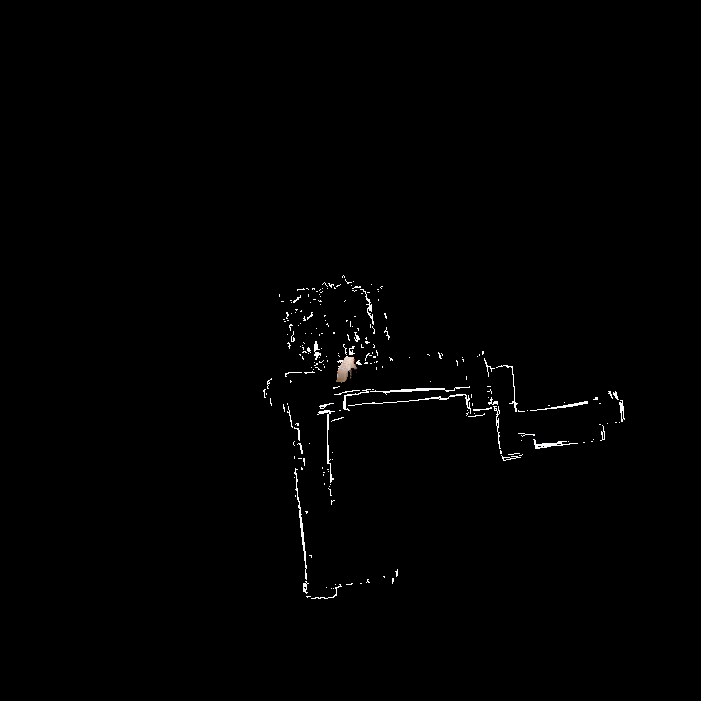
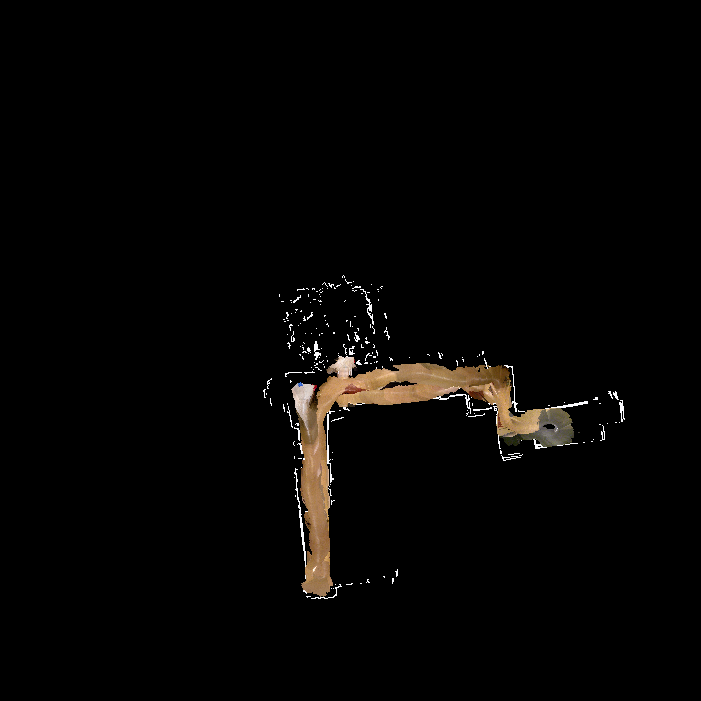
texturing done for dataset 20

Changed region(s): [[0.4194, 0.5093, 0.8388, 0.8688]]

diff --git a/HW2/SLAM.py b/HW2/SLAM.py
@@ -7,6 +7,7 @@ import copy
 import cv2
 from PIL import Image
 from matplotlib import cm
+import pandas as pd
 from operator import itemgetter
 from datetime import datetime
 
@@ -293,31 +294,35 @@ class TextureMapper:
         depth = 1.03/dd
         return depth
 
-    def ir_to_rgb(self, i, j, d):
-        depth = self.disparity_to_depth(d)
-        rgbi = (i * 526.37 + 1.03/depth * -4.5 * 1750.46 + 19276.0)/585.051
-        rgbj = (j * 526.37 + 16662)/585.051
+    def ir_to_rgb(self, indeces, disps):
+        depth = self.disparity_to_depth(disps)
+        rgbi = (indeces[1] * 526.37 + 1.03/depth * -4.5 * 1750.46 + 19276.0)/585.051
+        rgbj = (indeces[0] * 526.37 + 16662)/585.051
         return rgbi, rgbj
 
-    def pixel_to_body(self, u, v, d):
+    def pixel_to_body(self, A):
+        A = self.disparity_to_depth(A)
+        A[A <= 0.05] = -1000000
+        pixels = np.array([[np.array([j, i, 1]) for j in range(A.shape[1])] for i in range(A.shape[0])])
+        func = lambda x: np.dot(self.intrinsics, x)
+        B = np.array([[func(elem) for elem in pixels[i]]for i in range(pixels.shape[0])])
+        C = np.einsum('ij,ijk->ijk', A, B)
+        func2 = lambda x: np.dot(self.R_co, x)
+        D = np.array([[func2(elem) for elem in C[i]] for i in range(C.shape[0])])
+        E = np.dstack((D, np.ones((480, 640))))
+        func3 = lambda x: np.dot(self.T_bc, x)
+        body_frame = np.array([[func3(elem) for elem in E[i]] for i in range(E.shape[0])])
+        return body_frame
+
+    def pixel_to_body2(self, u, v, d):
         depth = self.disparity_to_depth(d)
         if depth < 0.05:
-            return np.array([0, 0, 0, 0])
+            return np.array([0, 0, 1000, 0])
         pixel = np.array([u, v, 1])
-        optical_frame = depth * np.dot(self.intrinsics, pixel)
+        optical_frame = depth*np.dot(self.intrinsics, pixel)
         regular_frame = np.dot(self.R_co, optical_frame)
         body_frame = np.dot(self.T_bc, np.append(regular_frame, 1))
         return body_frame
-
-
-    def test(self, p):
-        p1 = self.pixel_to_body(10, 10, 2)
-        p2 = self.pixel_to_body(300, 400, 1)
-        transform = p.transform_3d()
-        print(p1)
-        world = helpers.transformation_3d(p1, transform)
-        print(world)
-
 
 
 
@@ -396,34 +401,47 @@ if __name__ == "__main__":
         im = Image.fromarray(np.uint8(cm.gist_earth(occupancy_grid)*255))
         im.save("texture_map.png")
         texture_map = cv2.imread("texture_map.png")
-        counter = 0
         particle = Particle()
         timestamps = [x[1] for x in predictor.trajectory]
+        counter = 0
         for i, t in enumerate(kinect["disp_stamps"]):
-            if i % 10 != 0:
+            if i%1 != 0:
                 continue
-            if counter >= 50:
+            if counter == 2000:
                 break
             counter += 1
-            print(i)
             idx = (np.abs(timestamps - t)).argmin()
             particle.pose = predictor.trajectory[idx][0]
             particle.transform = particle.generate_transform()
+            print("img: " + str(i+1))
             disp_img = cv2.imread(
                 "dataRGBD/Disparity" + str(dataset) + "/disparity" + str(dataset) + "_" + str(i+1) + ".png", -1)
             rgb_img = cv2.imread("dataRGBD/RGB"+str(dataset)+"/rgb"+str(dataset)+"_"+str(i+1)+".png")
-            print("img: " + str(i+1))
-            for v, row in enumerate(disp_img[350:]):  # Starts at upper left
-                for u, disp in enumerate(row):
-                    coord = texture_mapper.pixel_to_body(u, v+350, disp)
-                    if coord.any():
-                        if coord[2] < 0.3:
-                            rgbi, rgbj = np.floor(texture_mapper.ir_to_rgb(u, v+350, disp)).astype(int)  # i,j starts in bottom left
-                            color = rgb_img[rgbj][rgbi]
-                            x, y = helpers.transformation(([coord[0]], [coord[1]]), particle.transform)
-                            x, y = predictor.points_to_cells(x[0], y[0])
-                            texture_map[x][y] = np.flip(color)
-        print(2)
+
+            coords = texture_mapper.pixel_to_body(disp_img)
+            coords[coords[:, :, 2] < 0] = 10
+            idx = np.array(np.where(coords[:, :, 2] < 0.2))
+            A = disp_img[idx[0], idx[1]]
+            rgbi, rgbj = np.floor(texture_mapper.ir_to_rgb(idx, A)).astype(int)
+
+            color = rgb_img[rgbj, rgbi]
+            points_body = coords[idx[0], idx[1]]
+            points_world = helpers.transformation((points_body[:, 0], points_body[:, 1]), particle.transform)
+            cells = predictor.points_to_cells(points_world[0], points_world[1])
+            texture_map[cells[0], cells[1]] = np.flip(color, 1)
+
+            # counter2 = 0
+            # for v, row in enumerate(disp_img):  # Starts at upper left
+            #     for u, disp in enumerate(row):
+            #         coord = texture_mapper.pixel_to_body2(u, v, disp)
+            #         if coord[2] < 0.1:
+            #             counter2 += 1
+                        #   # i,j starts in bottom left
+                        #
+                        # x, y = helpers.transformation(([coord[0]], [coord[1]]), particle.transform)
+                        # x, y = predictor.points_to_cells(x[0], y[0])
+                        # texture_map[x][y] = np.flip(color)
+            # print(counter2)
         plt.imsave("test.png", texture_map)
         plt.imshow(texture_map, cmap="hot")
         plt.show()
